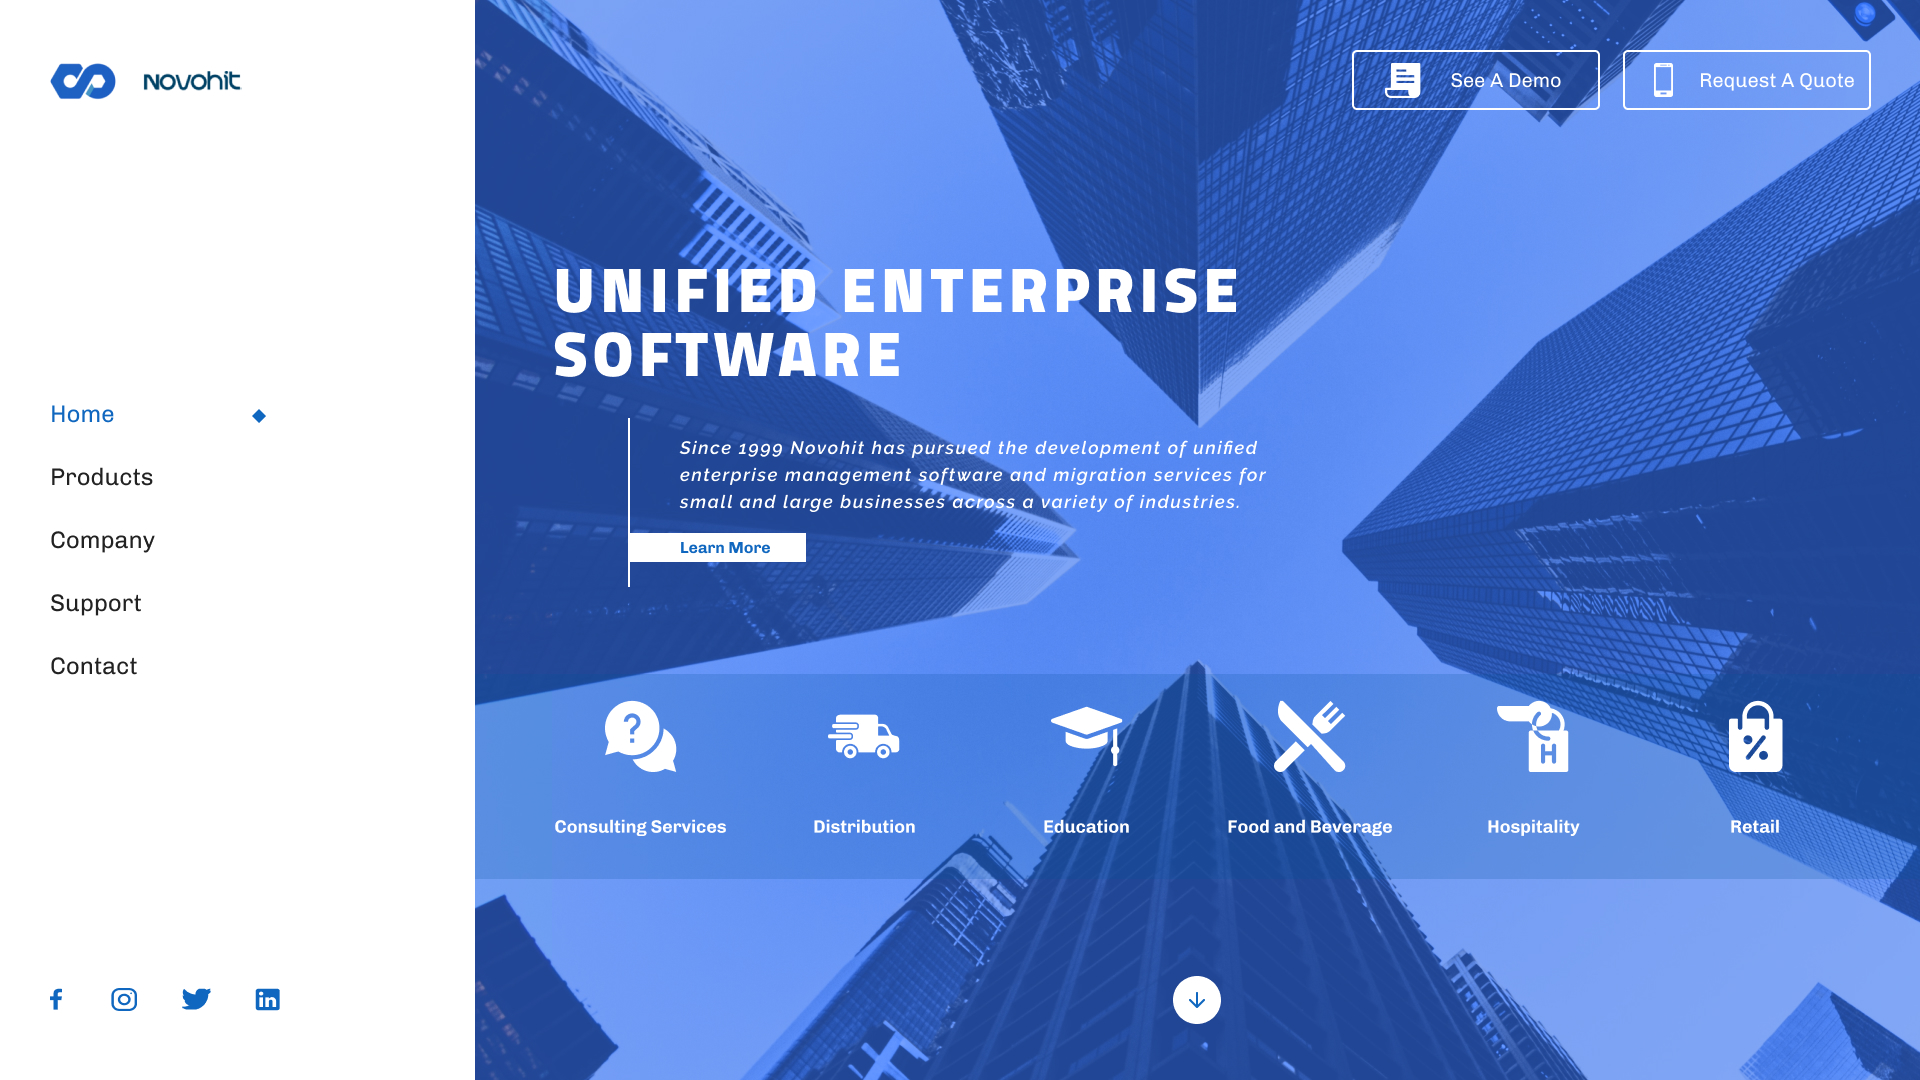
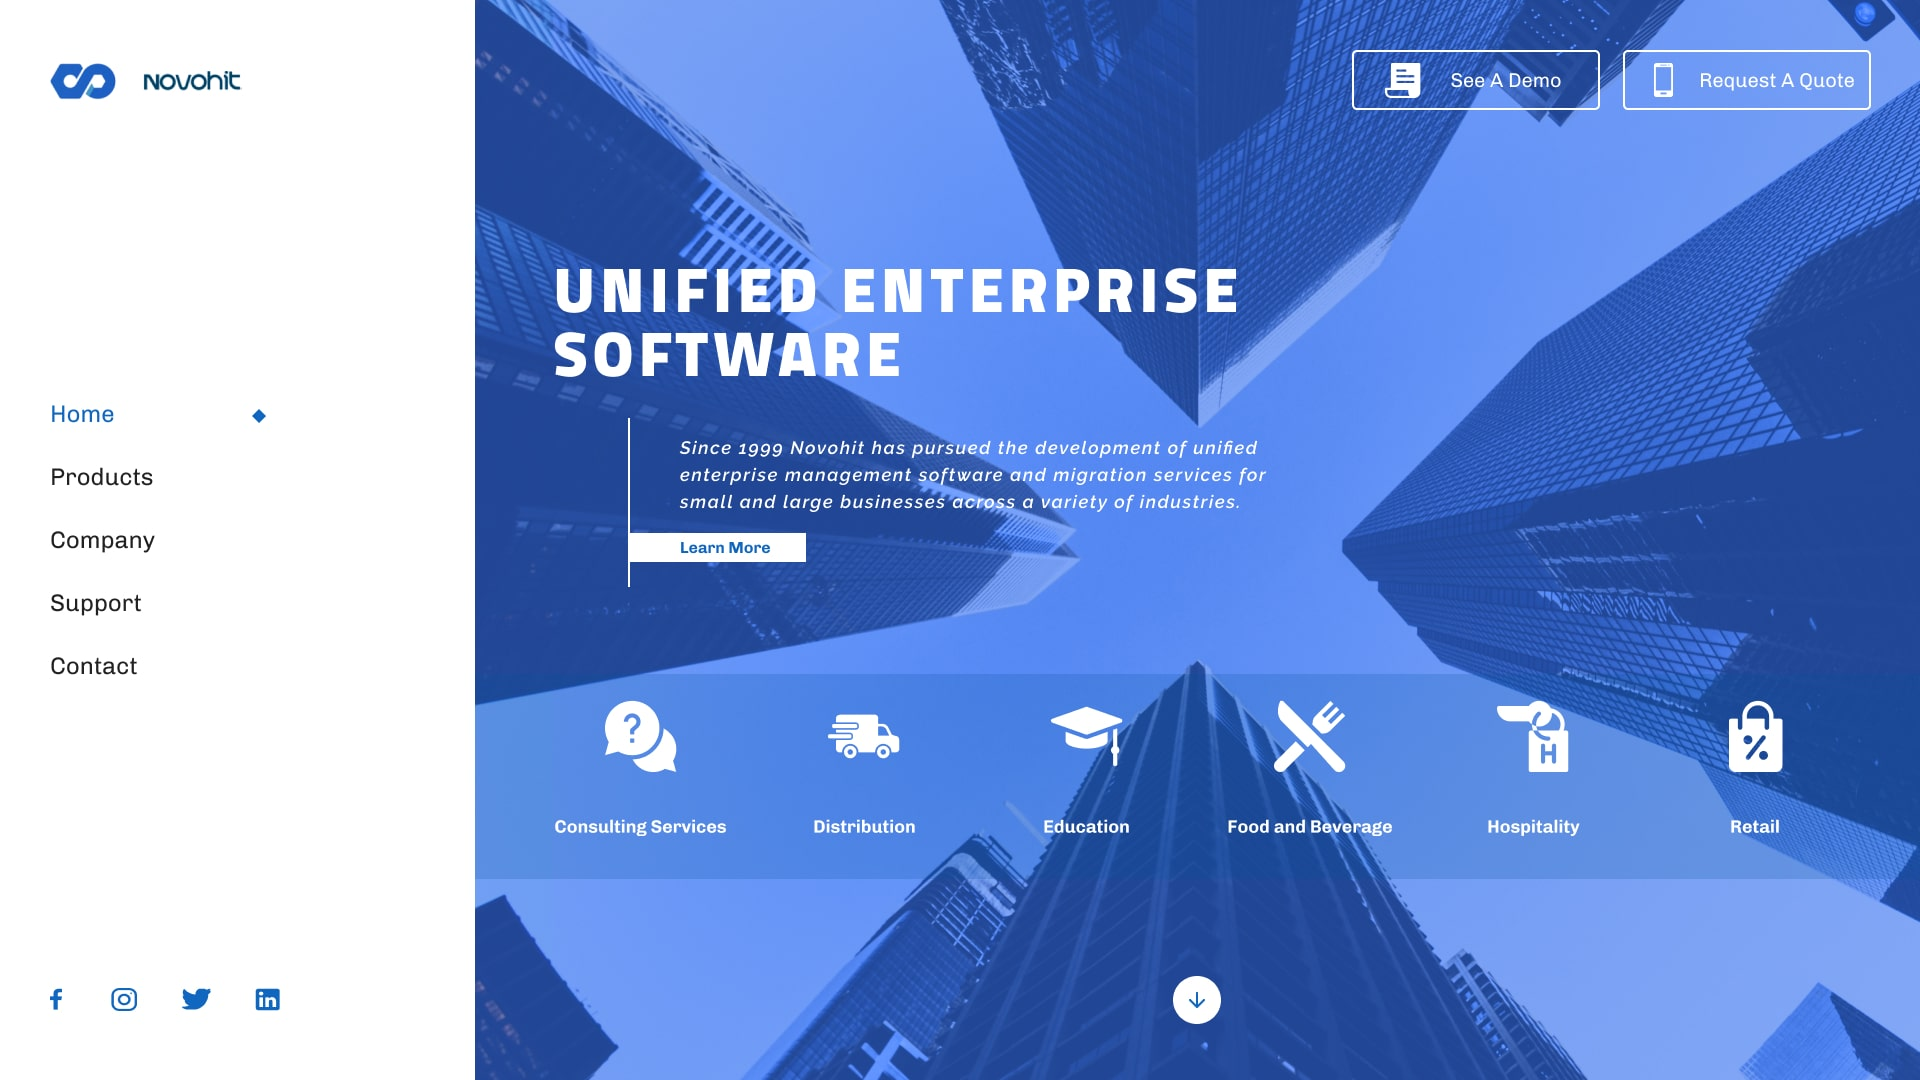
Compress images; create new table of contents

Changed region(s): [[0.3438, 0.4889, 0.4062, 0.5194], [0.4375, 0.6722, 0.4688, 0.7028], [0.0312, 0.3667, 0.0625, 0.3972]]

diff --git a/README.md b/README.md
@@ -1,24 +1,44 @@
 <!-- Heading -->
+
 <section>
-    <div align='center'>
+    <div align='left'>
         <img src='assets/logo-novohit-blue-vertical.png' alt='Novohit logo' width='100' />
         <h1>Novohit Website Redesign</h1>
         <p>A single-page website designed for Novohit using WordPress and Elementor.</p>
     </div>
-    <p align='center'>
-        <a href='#live-demo'>Live Demo</a> •
-        <a href='#overview'>Overview</a> •
-        <a href='#features'>Features</a> •
-        <a href='#technologies-used'>Technologies Used</a> •
-        <a href='#screenshots'>Screenshots</a> •
-        </br>
-        <a href='#research'>Research</a> •
-        <a href='#plan'>Plan</a> •
-        <a href='#create'>Create</a> •
-        </br>
-        <a href='#code-examples'>Code Examples</a> •
-        <a href='#additional-information'>Additional Information</a>
-    </p>
+</section>
+
+<section>
+    <ul>
+        <li><a href="#live-demo">Live Demo</a></li>
+        <li><a href="#overview">Overview</a></li>
+        <li><a href="#features">Features</a></li>
+        <li><a href="#outcomes">Outcomes</a></li>
+        <li><a href="#technologies-used">Technologies Used</a></li>
+        <li>
+            <a href="#screenshots">Screenshots</a>
+            <ul>
+                <li><a href="#landing-page">Landing Page</a></li>
+                <li><a href="#product-catalog">Product Catalog</a></li>
+                <li><a href="#company-services">Company Services</a></li>
+                <li><a href="#company-values">Company Values</a></li>
+            </ul>
+        </li>
+        <li>
+            <a href="#design-process">Design Process</a>
+            <ul>
+                <li><a href="#research">Research</a></li>
+                <li><a href="#plan">Plan</a></li>
+                <li><a href="#design">Design</a></li>
+            </ul>
+        </li>
+        <li>
+            <a href="#additional-information">Additional Information</a>
+            <ul>
+                <li><a href="#code-examples">Code Snippets</a></li>
+            </ul>
+        </li>
+    </ul>
 </section>
 
 <!-- Live Demo -->
@@ -33,7 +53,7 @@
 
 Novohit is an enterprise software management company developing Enterprise Resource Planning (ERP) solutions for a variety of businesses in the hospitality industry. Located in Santiago, Chile, the company contracted me to redesign their outdated website, align incoming brand changes with existing products, and help build a foundation for their entry into the U.S. market.
 
-![](assets/project-overview.jpg)
+![](assets/project-overview-min.jpg)
 
 <!-- Features -->
 
@@ -43,6 +63,12 @@ Novohit is an enterprise software management company developing Enterprise Resou
 -   Responsive styling for mobile, tablet, and desktop
 -   Product catalog with optional filtering
 -   Client scheduling system for in-person or virtual demos
+
+<h3 id="Outcomes">📊 Outcomes</h3>
+
+-   Increased page impressions by +2,000/month and implemented website translation services for thousands of monthly visitors
+-   Designed modern accessibility features for 3,500 monthly mobile, tablet, and desktop users
+-   Leveraged Figma to create a scalable design system for Novohit’s website
 
 <!-- Technologies -->
 
@@ -56,31 +82,31 @@ Novohit is an enterprise software management company developing Enterprise Resou
 
 #### Landing Page
 
-![](assets/page-landing.jpg)
+![](assets/page-landing-min.jpg)
 
 #### Product Catalog
 
-![](assets/product-catalog.jpg)
+![](assets/product-catalog-min.jpg)
 
 #### Company Services
 
-![](assets/company-services.jpg)
+![](assets/company-services-min.jpg)
 
 #### Company Values
 
-![](assets/company-values.jpg)
+![](assets/company-values-min.jpg)
 
 #### Footer
 
-![](assets/footer.jpg)
+![](assets/footer-min.jpg)
 
 #### Support Page
 
-![](assets/page-support.jpg)
+![](assets/page-support-min.jpg)
 
 #### Contact Page
 
-![](assets/page-contact.jpg)
+![](assets/page-contact-min.jpg)
 
 <!-- Problem Solving -->
 
@@ -96,7 +122,7 @@ I spent a week familiarizing myself with the **who**, the **what**, and the **wh
 -   **What** is ERP?
 -   **Why** do companies use it? etc.
 
-![](assets/research-industry-analysis.jpg)
+![](assets/research-industry-analysis-min.jpg)
 
 #### Novohit Q&A
 
@@ -108,7 +134,7 @@ Following my initial research, I prepared a Q&A discussion with Novohit to:
 
 This was an introspective exercise to help me understand Novohit's vision and resolve future concerns in hindsight.
 
-![](assets/research-q-and-a.jpg)
+![](assets/research-q-and-a-min.jpg)
 
 #### User Research (Surveys)
 
@@ -116,23 +142,23 @@ The previously mentioned Q&A only revealed a partial understanding of Novohit's 
 
 Working with limited resources, I drafted a Google Survey that introduced respondees to **[Novohit's old website](#sitemap-novohit-old)** and asked them to answer a series of questions regarding their initial impressions.
 
-![](assets/research-user-surveys.jpg)
+![](assets/research-user-surveys-min.jpg)
 
 #### User Research (Personas)
 
 I continued my research by drafting personas from the information in my initial Q&A with Novohit. While the portraits in the below image are fictional, the information represented in each card is indicative of Novohit's existing clientele and incoming customers from the U.S.
 
-![](assets/research-user-personas.jpg)
+![](assets/research-user-personas-min.jpg)
 
 #### Competitor Analysis
 
 The final step in my research process was a simple competitive analysis of existing ERP developers to see how others solve similar problems. My challenge was to create or adopt a solution for managing the plethora of information that hindered Novohit's antiquated website navigation. The company wanted a more fundamental method for organizing and presenting information to new and existing customers which we solved with a single-page application.
 
-![](assets/research-competitor-analysis.jpg)
+![](assets/research-competitive-analysis-min.jpg)
 
 The below image represents my competitor research and includes observations about other sites' user interfaces and experience.
 
-![](assets/competitive-analysis-0.75x.png)
+![](assets/research-competitive-analysis-example-min.png)
 
 <!-- plan -->
 
@@ -142,7 +168,7 @@ Following the project's research phase, it was time to focus on user experience.
 
 Novohit wanted more customer outreach to users on tablets and mobile phones, as well as a design that would assist new customers with finding a product for their specific use case. This would assure existing clients could find the information they need while helping new clients identify useful services that Novohit provides.
 
-![](assets/novohit-proposal-user-flow-0.5x.png)
+![](assets/novohit-proposal-user-flow-min.png)
 
 <!-- create -->
 
@@ -156,36 +182,36 @@ Novohit wanted more customer outreach to users on tablets and mobile phones, as 
 
 ![]()
 
-<!-- Additional Information -->
+<!-- Additional Screenshots -->
 
-<h3 id="additional-information">🔖 Additional Information</h3>
+<h3 id="additional-screenshots">🔖 Additional Screenshots</h3>
 
 <h4 id="sitemap-novohit-old">Novohit Sitemap (Old)</h4>
 
 Preview of Novohit's old website.
 
-![](<assets/sitemap-novohit-old%20(0.5x).png>)
+![](assets/sitemap-novohit-old-min.png)
 
 <h4 id="sitemap-novohit-new">Novohit Sitemap (New)</h4>
 
 Preview of a proposed sitemap revision.
 
-![](assets/sitemap-novohit-new.png)
+![](assets/sitemap-novohit-new-min.png)
 
 <h4>Novohit Landing Page (Old)</h4>
 
 Preview of Novohit's previous landing page.
 
-![](assets/novohit-old-landing-page-analysis.png)
+![](assets/novohit-old-landing-page-analysis-min.png)
 
 <h4>Novohit Services</h4>
 
 Card diagram of Novohit's services.
 
-![](assets/diagram-products.png)
+![](assets/diagram-products-min.png)
 
 <h4>Novohit Industries</h4>
 
 Card diagram of Novohit's clientele by industry.
 
-![](assets/diagram-industries.png)
+![](assets/diagram-industries-min.png)
